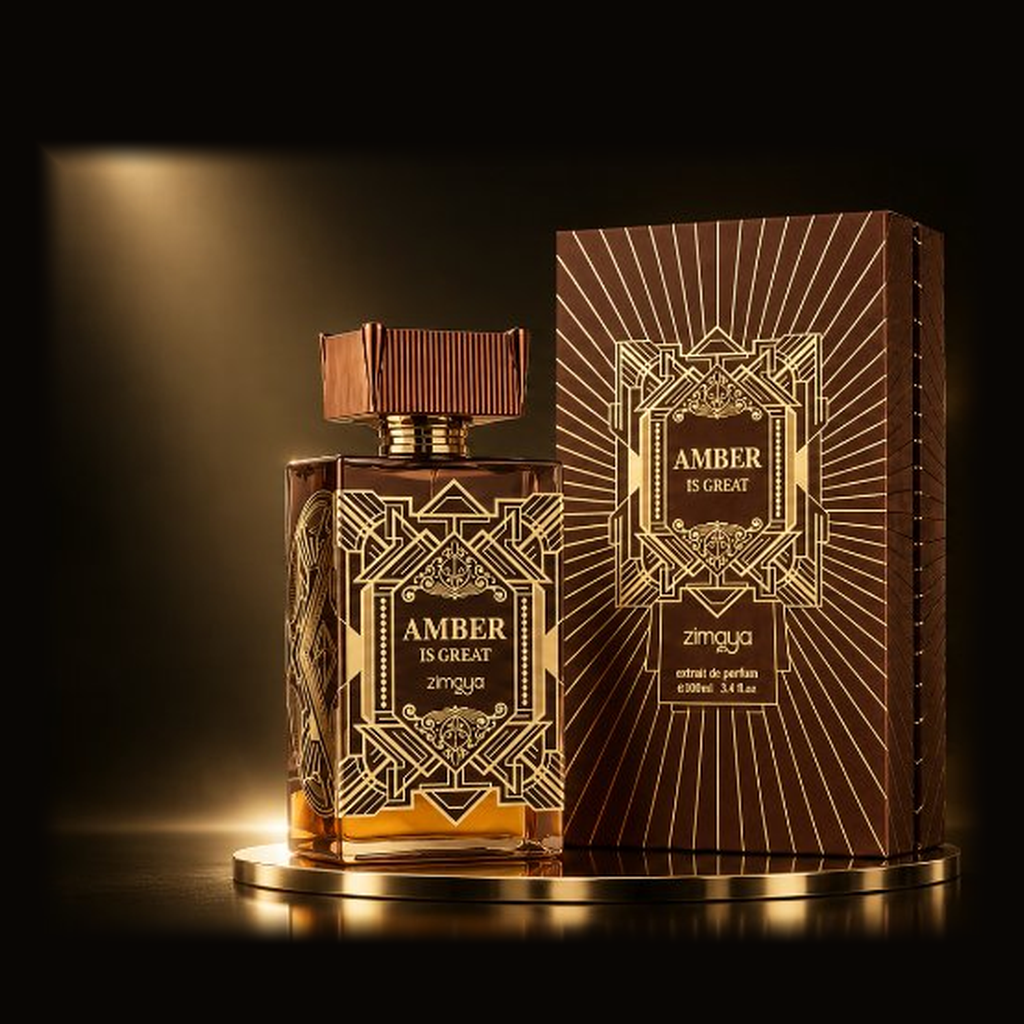
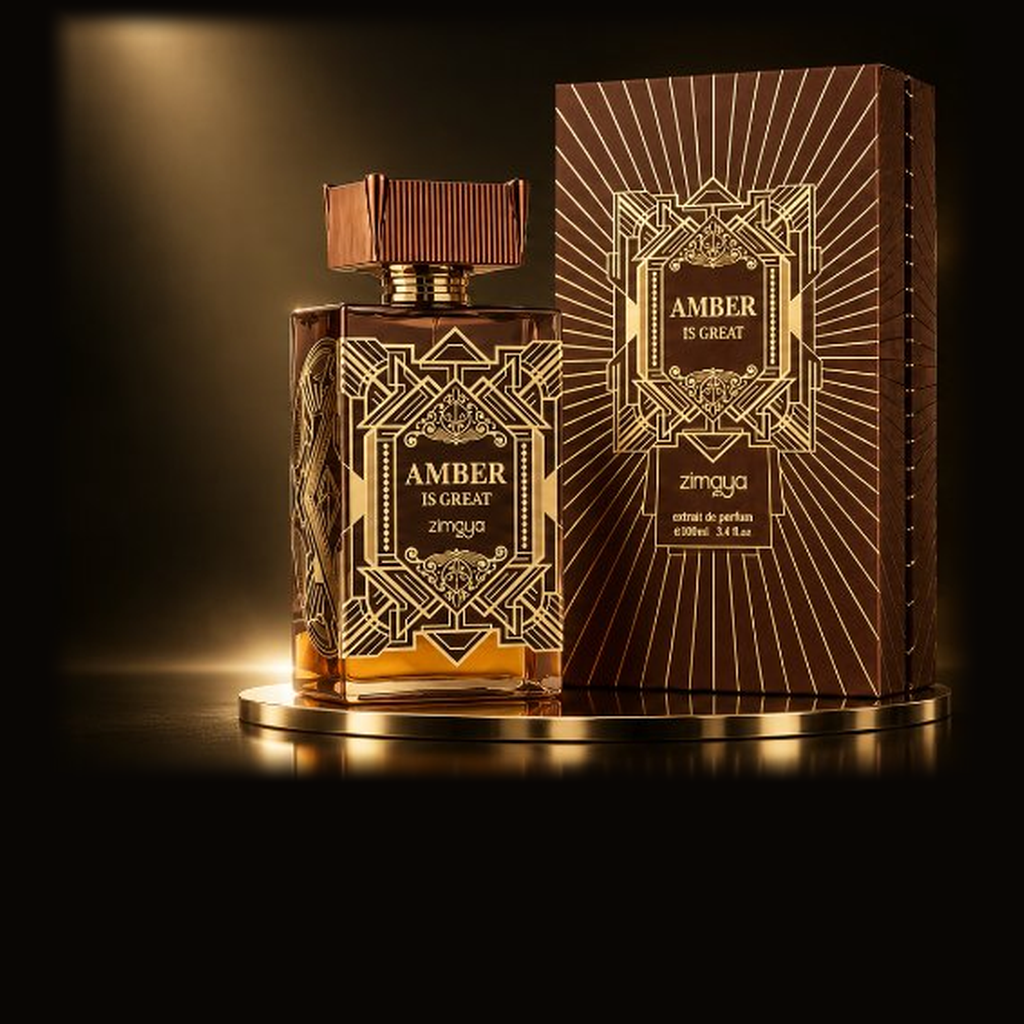
style(details): align topmost point of product flush with top line of title heading

diff --git a/Al-Warda/src/components/bookdetails/BookDetails.jsx b/Al-Warda/src/components/bookdetails/BookDetails.jsx
@@ -29,7 +29,7 @@ function bustImageCache(url) {
   if (!url || typeof url !== "string") return url;
   if (!url.startsWith("/assets/img/")) return url;
   const clean = url.split("?")[0];
-  return `${clean}?v=luxury-stage-v6`;
+  return `${clean}?v=luxury-stage-v7`;
 }
 
 function getPerfumeImageSources(perfume) {
@@ -44,11 +44,11 @@ function getPerfumeImageSources(perfume) {
       : null;
   const webpUrl =
     typeof cleanPrimary === "string" && cleanPrimary.endsWith(".png")
-      ? `${cleanPrimary.replace(/\.png$/, ".webp")}?v=luxury-stage-v6`
+      ? `${cleanPrimary.replace(/\.png$/, ".webp")}?v=luxury-stage-v7`
       : null;
   const pngUrl =
     typeof cleanPrimary === "string" && cleanPrimary.endsWith(".webp")
-      ? `${cleanPrimary.replace(/\.webp$/, ".png")}?v=luxury-stage-v6`
+      ? `${cleanPrimary.replace(/\.webp$/, ".png")}?v=luxury-stage-v7`
       : null;
   const rawGhWebpUrl = rawGhUrl ? rawGhUrl.replace(/\.png$/, ".webp") : null;
   const fallback =

diff --git a/Al-Warda/src/components/bookdetails/BookDetails.css b/Al-Warda/src/components/bookdetails/BookDetails.css
@@ -139,14 +139,14 @@
   display: flex;
   flex-direction: column;
   align-items: center;
-  justify-content: center;
+  justify-content: flex-start;
   position: relative;
 }
 
 .warda-details-img-wrap {
   width: 100%;
   display: flex;
-  align-items: center;
+  align-items: flex-start;
   justify-content: center;
   min-height: 640px;
   height: 640px;
@@ -209,7 +209,7 @@
 .warda-details-photo {
   position: relative;
   display: flex;
-  align-items: center;
+  align-items: flex-start;
   justify-content: center;
   width: 100%;
   height: 100%;
